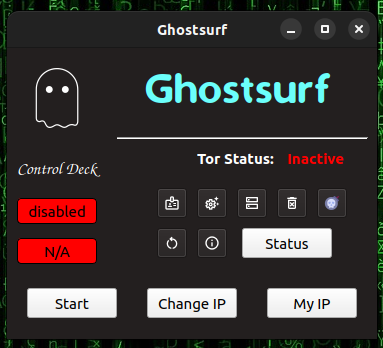
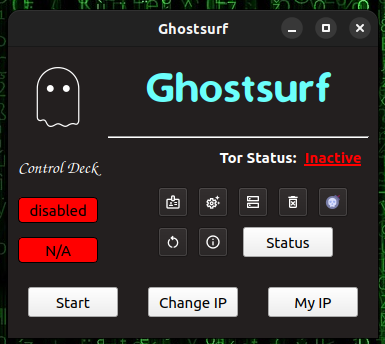
Update

diff --git a/guis/main_win_ui.py b/guis/main_win_ui.py
@@ -19,6 +19,9 @@ class Ui_MainWindow(object):
         if not MainWindow.objectName():
             MainWindow.setObjectName(u"MainWindow")
         MainWindow.resize(370, 291)
+        font = QFont()
+        font.setStrikeOut(False)
+        MainWindow.setFont(font)
         icon = QIcon()
         icon.addFile(u":/logos/ghostsurf.png", QSize(), QIcon.Normal, QIcon.Off)
         MainWindow.setWindowIcon(icon)
@@ -35,10 +38,10 @@ class Ui_MainWindow(object):
         self.title_label = QLabel(self.centralwidget)
         self.title_label.setObjectName(u"title_label")
         self.title_label.setGeometry(QRect(99, 10, 261, 71))
-        font = QFont()
-        font.setFamily(u"Dyuthi")
-        font.setPointSize(35)
-        self.title_label.setFont(font)
+        font1 = QFont()
+        font1.setFamily(u"Dyuthi")
+        font1.setPointSize(35)
+        self.title_label.setFont(font1)
         self.title_label.setStyleSheet(u"#title_label {\n"
 "	color: #6bfffb;\n"
 "}")
@@ -46,9 +49,9 @@ class Ui_MainWindow(object):
         self.start_stop_button = QPushButton(self.centralwidget)
         self.start_stop_button.setObjectName(u"start_stop_button")
         self.start_stop_button.setGeometry(QRect(20, 240, 90, 30))
-        font1 = QFont()
-        font1.setFamily(u"Ubuntu")
-        self.start_stop_button.setFont(font1)
+        font2 = QFont()
+        font2.setFamily(u"Ubuntu")
+        self.start_stop_button.setFont(font2)
         self.change_ip_button = QPushButton(self.centralwidget)
         self.change_ip_button.setObjectName(u"change_ip_button")
         self.change_ip_button.setGeometry(QRect(140, 240, 90, 30))
@@ -57,21 +60,31 @@ class Ui_MainWindow(object):
         self.my_ip_button.setGeometry(QRect(260, 240, 90, 30))
         self.status_header_label = QLabel(self.centralwidget)
         self.status_header_label.setObjectName(u"status_header_label")
-        self.status_header_label.setGeometry(QRect(190, 100, 80, 20))
-        font2 = QFont()
-        font2.setBold(True)
-        font2.setWeight(75)
-        self.status_header_label.setFont(font2)
+        self.status_header_label.setGeometry(QRect(210, 100, 80, 20))
+        font3 = QFont()
+        font3.setBold(True)
+        font3.setUnderline(False)
+        font3.setWeight(75)
+        font3.setStrikeOut(False)
+        font3.setKerning(True)
+        self.status_header_label.setFont(font3)
         self.status_header_label.setStyleSheet(u"#status_header_label {\n"
 "	color: white;\n"
 "}")
+        self.status_header_label.setAlignment(Qt.AlignCenter)
         self.status_label = QLabel(self.centralwidget)
         self.status_label.setObjectName(u"status_label")
-        self.status_label.setGeometry(QRect(280, 100, 80, 20))
-        self.status_label.setFont(font2)
+        self.status_label.setGeometry(QRect(290, 100, 70, 20))
+        font4 = QFont()
+        font4.setBold(True)
+        font4.setUnderline(True)
+        font4.setWeight(75)
+        font4.setKerning(True)
+        self.status_label.setFont(font4)
         self.status_label.setStyleSheet(u"#status_label {\n"
 "	color: red;\n"
 "}")
+        self.status_label.setAlignment(Qt.AlignCenter)
         self.status_button = QPushButton(self.centralwidget)
         self.status_button.setObjectName(u"status_button")
         self.status_button.setGeometry(QRect(235, 180, 90, 30))
@@ -149,19 +162,19 @@ class Ui_MainWindow(object):
         self.control_deck_label = QLabel(self.centralwidget)
         self.control_deck_label.setObjectName(u"control_deck_label")
         self.control_deck_label.setGeometry(QRect(10, 110, 90, 20))
-        font3 = QFont()
-        font3.setFamily(u"Z003")
-        font3.setPointSize(13)
-        font3.setBold(False)
-        font3.setItalic(False)
-        font3.setWeight(50)
-        self.control_deck_label.setFont(font3)
+        font5 = QFont()
+        font5.setFamily(u"Z003")
+        font5.setPointSize(13)
+        font5.setBold(False)
+        font5.setItalic(False)
+        font5.setWeight(50)
+        self.control_deck_label.setFont(font5)
         self.control_deck_label.setStyleSheet(u"#control_deck_label {\n"
 "	color: white;\n"
 "}")
         self.line = QFrame(self.centralwidget)
         self.line.setObjectName(u"line")
-        self.line.setGeometry(QRect(110, 80, 251, 20))
+        self.line.setGeometry(QRect(100, 80, 261, 20))
         self.line.setFrameShape(QFrame.HLine)
         self.line.setFrameShadow(QFrame.Sunken)
         self.anti_mitm_button = QPushButton(self.centralwidget)
@@ -190,7 +203,7 @@ class Ui_MainWindow(object):
         self.change_ip_button.setText(QCoreApplication.translate("MainWindow", u"Change IP", None))
         self.my_ip_button.setText(QCoreApplication.translate("MainWindow", u"My IP", None))
         self.status_header_label.setText(QCoreApplication.translate("MainWindow", u"Tor Status:", None))
-        self.status_label.setText(QCoreApplication.translate("MainWindow", u"Deactive", None))
+        self.status_label.setText(QCoreApplication.translate("MainWindow", u"Inactive", None))
         self.status_button.setText(QCoreApplication.translate("MainWindow", u"Status", None))
 #if QT_CONFIG(tooltip)
         self.info_button.setToolTip(QCoreApplication.translate("MainWindow", u"See the help page", None))
@@ -222,9 +235,6 @@ class Ui_MainWindow(object):
         self.hostname_changer_button.setText("")
         self.dns_changer_button.setText("")
         self.control_deck_label.setText(QCoreApplication.translate("MainWindow", u"Control Deck", None))
-#if QT_CONFIG(tooltip)
-        self.anti_mitm_button.setToolTip(QCoreApplication.translate("MainWindow", u"Enable anti man in the middle service", None))
-#endif // QT_CONFIG(tooltip)
         self.anti_mitm_button.setText(QCoreApplication.translate("MainWindow", u"N/A", None))
     # retranslateUi
 
